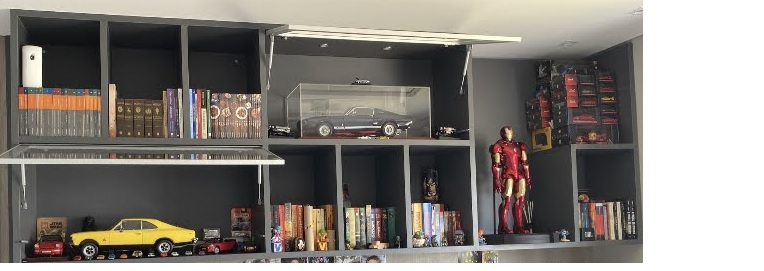
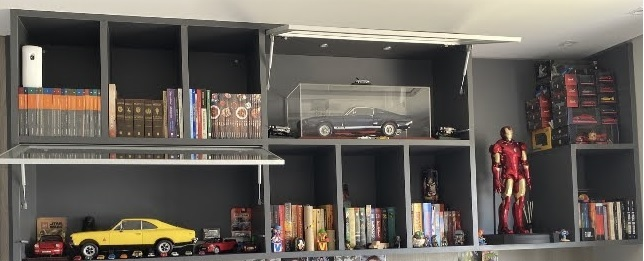
Acertei tamanho da imagem

diff --git a/style.css b/style.css
@@ -1,0 +1,3 @@
+.banner {
+    width: 100%;
+}
